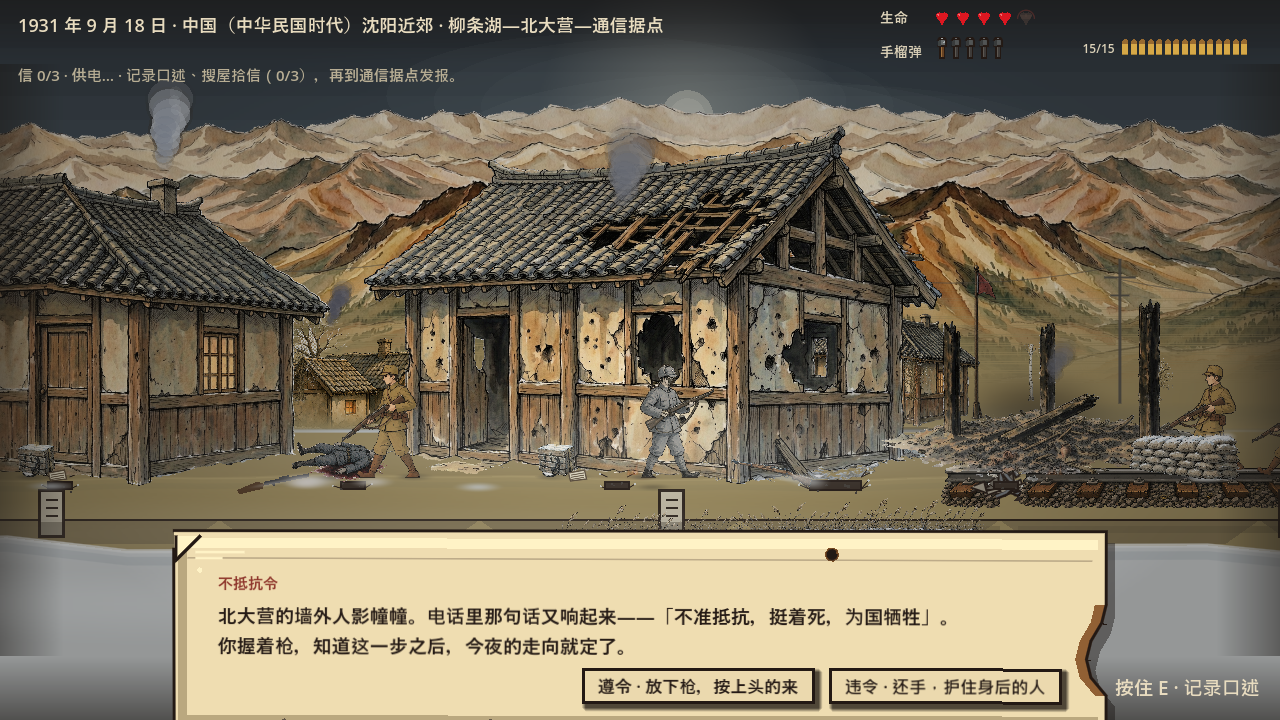
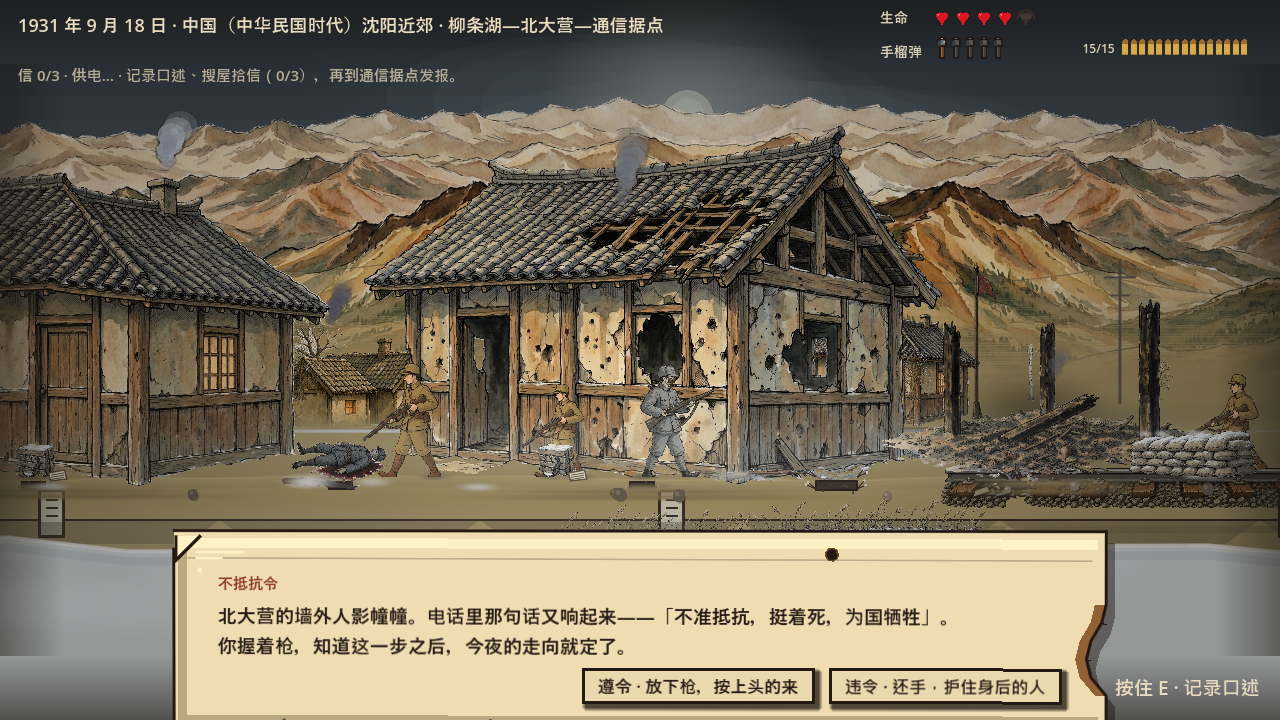
v3.76: 九一八木柴堆(弹药木箱)接地阴影补强 · 闭环圈注图5
- 定位: 经像素级木色聚类+贴图/代码穷举, 确认用户圈注图5'木柴堆'实为 crate.png 弹药木箱(木纹板缝+深色内腔远景读成劈开木柴堆), 直边底边=切口笔直, 旧 SnowShadow(0.22)过淡=无阴影/浮空
- N918Level.cs / JiangqiaoLevel.cs: 战壕木箱循环与补给车木箱 DrawSupplyCart 共4处, 把过淡 SnowShadow(0.22) 换成与v3.75沙袋同款深色接地椭圆(SoftSnow/N918SoftSnow.Blob 0.10,0.11,0.13,0.5, 宽0.64x箱体, GroundY+3, 画在木箱与雪帽之后)
- README.md: 版本头改 v3.76, 新增 v3.76 章节(含定位与验证), 修正 v3.75 图5未定位标注为已解, 画廊 n918_08_barracks/jiangqiao_village ?v=3.75->3.76
- docs/screenshots: 同步 n918_08_barracks / jiangqiao_village 两张真实 Godot 实机帧

diff --git a/scripts/N918Level.cs b/scripts/N918Level.cs
@@ -3619,7 +3619,13 @@ public partial class N918Level : Node2D
             DrawTextureRect(N918SoftSnow.Blob(new Color(0.72f, 0.66f, 0.48f), 0.5f),
                 new Rect2(-boxW, -boxW, boxW * 2f, boxW * 2f), false);
             DrawSetTransform(Vector2.Zero, 0, Vector2.One);
-            SnowShadow.Draw(this, new Vector2(cartX + boxW * 0.5f, GroundY - 1f), boxW * 0.6f, 0.22f);
+            // v3.76: dark ground-contact shadow so the cart crate reads as
+            // resting on the ground, not floating. Old SnowShadow(0.22) too faint.
+            float cartContactW = boxW * 1.5f;
+            DrawSetTransform(new Vector2(cartX + boxW * 0.5f, GroundY + 3f), 0, new Vector2(cartContactW / 40f, 0.30f));
+            DrawTextureRect(N918SoftSnow.Blob(new Color(0.10f, 0.11f, 0.13f), 0.5f),
+                new Rect2(-20f, -20f, 40f, 40f), false);
+            DrawSetTransform(Vector2.Zero, 0, Vector2.One);
 
             // the crate body, tipped over on its side with a slight tilt
             float tw = boxW * 1.3f;
@@ -3835,8 +3841,7 @@ public partial class N918Level : Node2D
                     DrawTextureRect(N918SoftSnow.Blob(new Color(0.72f, 0.66f, 0.48f), 0.5f),
                         new Rect2(-cw * 0.7f, -cw * 0.7f, cw * 1.4f, cw * 1.4f), false);
                     DrawSetTransform(Vector2.Zero, 0, Vector2.One);
-                    // soft contact shadow
-                    SnowShadow.Draw(this, new Vector2(x + 10f, GroundY - 1f), cw * 0.55f, 0.22f);
+                    // (contact shadow re-added below the crate so it actually reads)
                     // the crate itself, tilted, sunk a touch
                     DrawSetTransform(new Vector2(x + 8f, GroundY - 1f), rot, Vector2.One);
                     DrawTextureRect(crate, new Rect2(-cw * 0.5f, -ch + 2f, cw, ch), false);
@@ -3850,6 +3855,14 @@ public partial class N918Level : Node2D
                     DrawSetTransform(new Vector2(x + 6f, GroundY + 1f), 0, new Vector2(1.4f, 0.4f));
                     DrawTextureRect(N918SoftSnow.Blob(new Color(0.62f, 0.55f, 0.37f), 0.55f),
                         new Rect2(-cw * 0.5f, -8f, cw, 16f), false);
+                    DrawSetTransform(Vector2.Zero, 0, Vector2.One);
+                    // v3.76: dark ground-contact shadow at the crate base. The old
+                    // SnowShadow(0.22) was too faint against the autumn snow drift,
+                    // so the box read as floating. Drawn last so it stays visible.
+                    float crateContactW = cw * 0.64f;
+                    DrawSetTransform(new Vector2(x + 8f, GroundY + 3f), 0, new Vector2(crateContactW / 40f, 0.30f));
+                    DrawTextureRect(N918SoftSnow.Blob(new Color(0.10f, 0.11f, 0.13f), 0.5f),
+                        new Rect2(-20f, -20f, 40f, 40f), false);
                     DrawSetTransform(Vector2.Zero, 0, Vector2.One);
                 }
             }

diff --git a/scripts/JiangqiaoLevel.cs b/scripts/JiangqiaoLevel.cs
@@ -3562,7 +3562,13 @@ public partial class JiangqiaoLevel : Node2D
             DrawTextureRect(SoftSnow.Blob(new Color(0.88f, 0.91f, 0.92f), 0.5f),
                 new Rect2(-boxW, -boxW, boxW * 2f, boxW * 2f), false);
             DrawSetTransform(Vector2.Zero, 0, Vector2.One);
-            SnowShadow.Draw(this, new Vector2(cartX + boxW * 0.5f, GroundY - 1f), boxW * 0.6f, 0.22f);
+            // v3.76: dark ground-contact shadow so the cart crate reads as
+            // resting on the ground, not floating. Old SnowShadow(0.22) too faint.
+            float cartContactW = boxW * 1.5f;
+            DrawSetTransform(new Vector2(cartX + boxW * 0.5f, GroundY + 3f), 0, new Vector2(cartContactW / 40f, 0.30f));
+            DrawTextureRect(SoftSnow.Blob(new Color(0.10f, 0.11f, 0.13f), 0.5f),
+                new Rect2(-20f, -20f, 40f, 40f), false);
+            DrawSetTransform(Vector2.Zero, 0, Vector2.One);
 
             // the crate body, tipped over on its side with a slight tilt
             float tw = boxW * 1.3f;
@@ -3992,8 +3998,7 @@ public partial class JiangqiaoLevel : Node2D
                     DrawTextureRect(SoftSnow.Blob(new Color(0.88f, 0.91f, 0.92f), 0.5f),
                         new Rect2(-cw * 0.7f, -cw * 0.7f, cw * 1.4f, cw * 1.4f), false);
                     DrawSetTransform(Vector2.Zero, 0, Vector2.One);
-                    // soft contact shadow
-                    SnowShadow.Draw(this, new Vector2(x + 10f, GroundY - 1f), cw * 0.55f, 0.22f);
+                    // (contact shadow re-added below the crate so it actually reads)
                     // the crate itself, tilted, sunk a touch
                     DrawSetTransform(new Vector2(x + 8f, GroundY - 1f), rot, Vector2.One);
                     DrawTextureRect(crate, new Rect2(-cw * 0.5f, -ch + 2f, cw, ch), false);
@@ -4007,6 +4012,14 @@ public partial class JiangqiaoLevel : Node2D
                     DrawSetTransform(new Vector2(x + 6f, GroundY + 1f), 0, new Vector2(1.4f, 0.4f));
                     DrawTextureRect(SoftSnow.Blob(new Color(0.94f, 0.96f, 0.96f), 0.55f),
                         new Rect2(-cw * 0.5f, -8f, cw, 16f), false);
+                    DrawSetTransform(Vector2.Zero, 0, Vector2.One);
+                    // v3.76: dark ground-contact shadow at the crate base. The old
+                    // SnowShadow(0.22) was too faint against the snow drift, so the
+                    // box read as floating. Drawn last so it stays visible.
+                    float crateContactW = cw * 0.64f;
+                    DrawSetTransform(new Vector2(x + 8f, GroundY + 3f), 0, new Vector2(crateContactW / 40f, 0.30f));
+                    DrawTextureRect(SoftSnow.Blob(new Color(0.10f, 0.11f, 0.13f), 0.5f),
+                        new Rect2(-20f, -20f, 40f, 40f), false);
                     DrawSetTransform(Vector2.Zero, 0, Vector2.One);
                 }
             }
